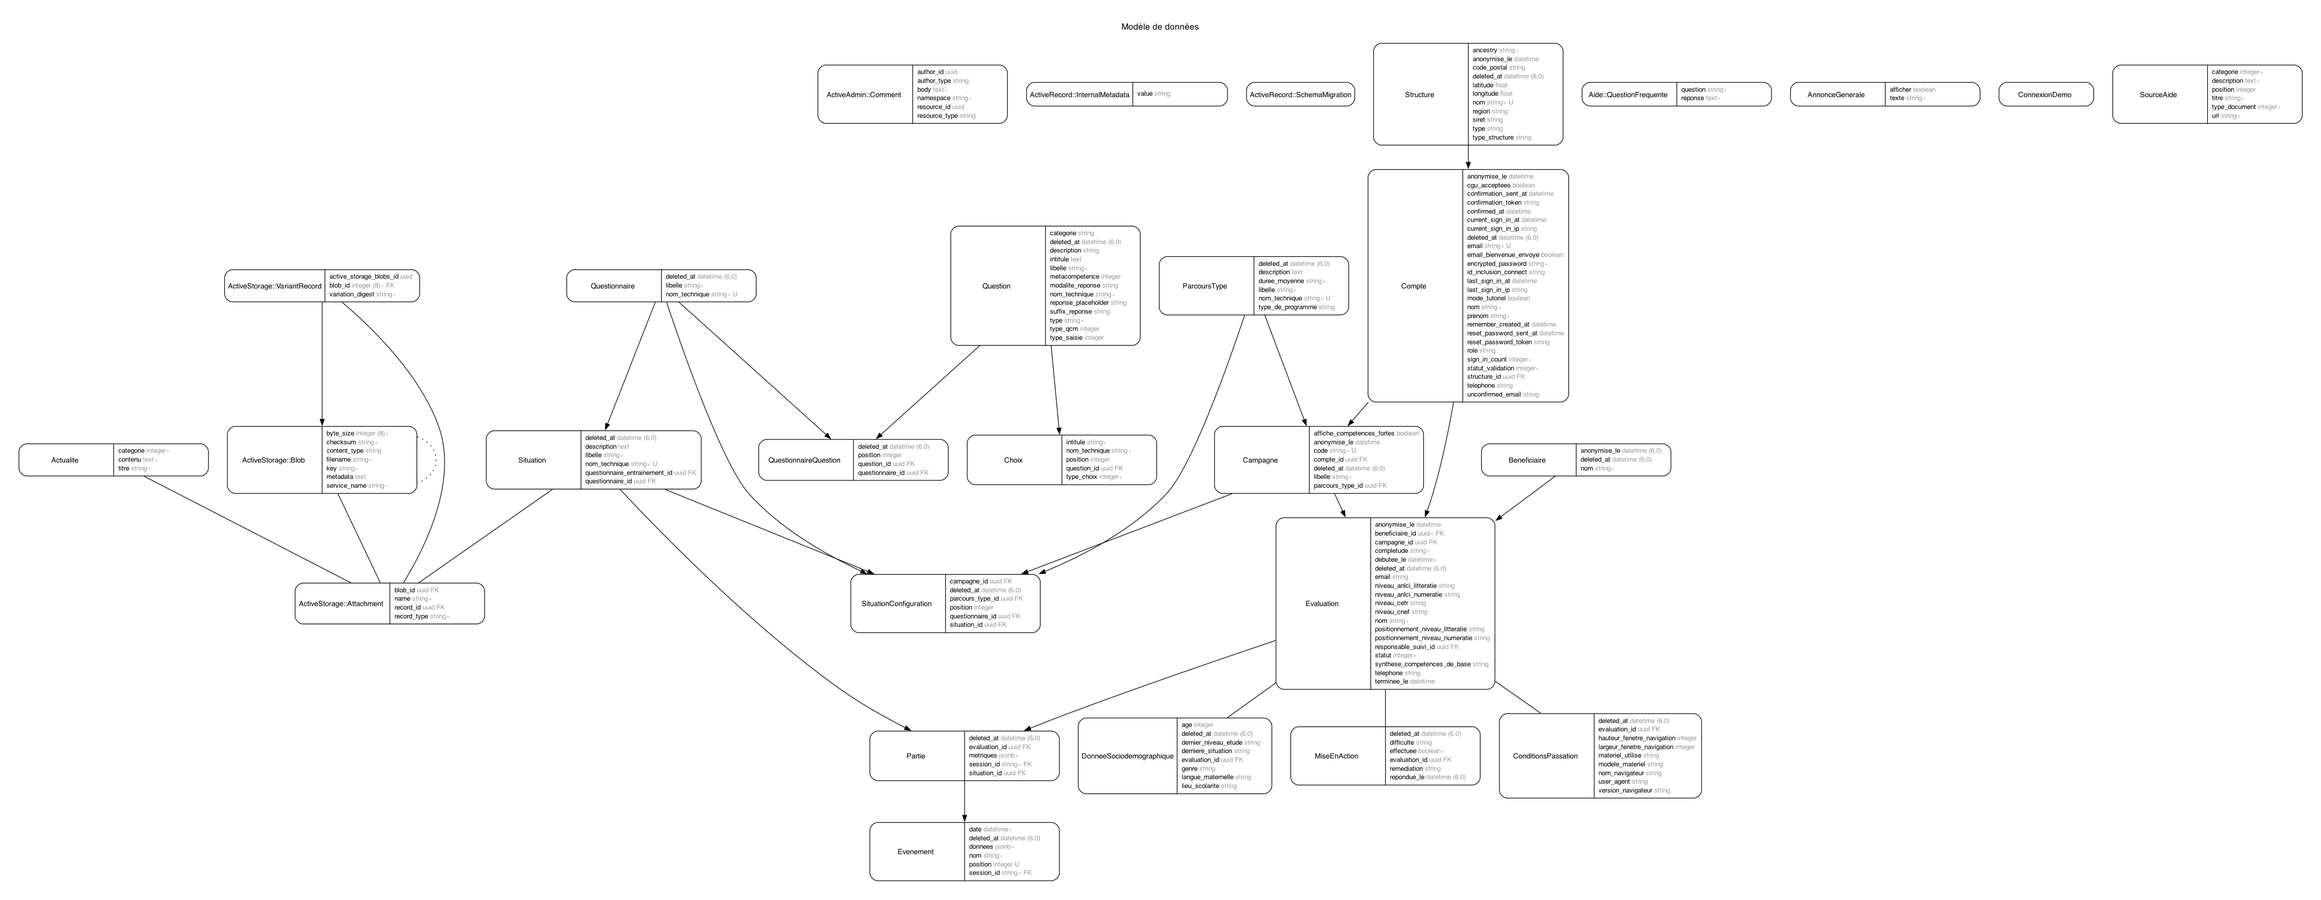
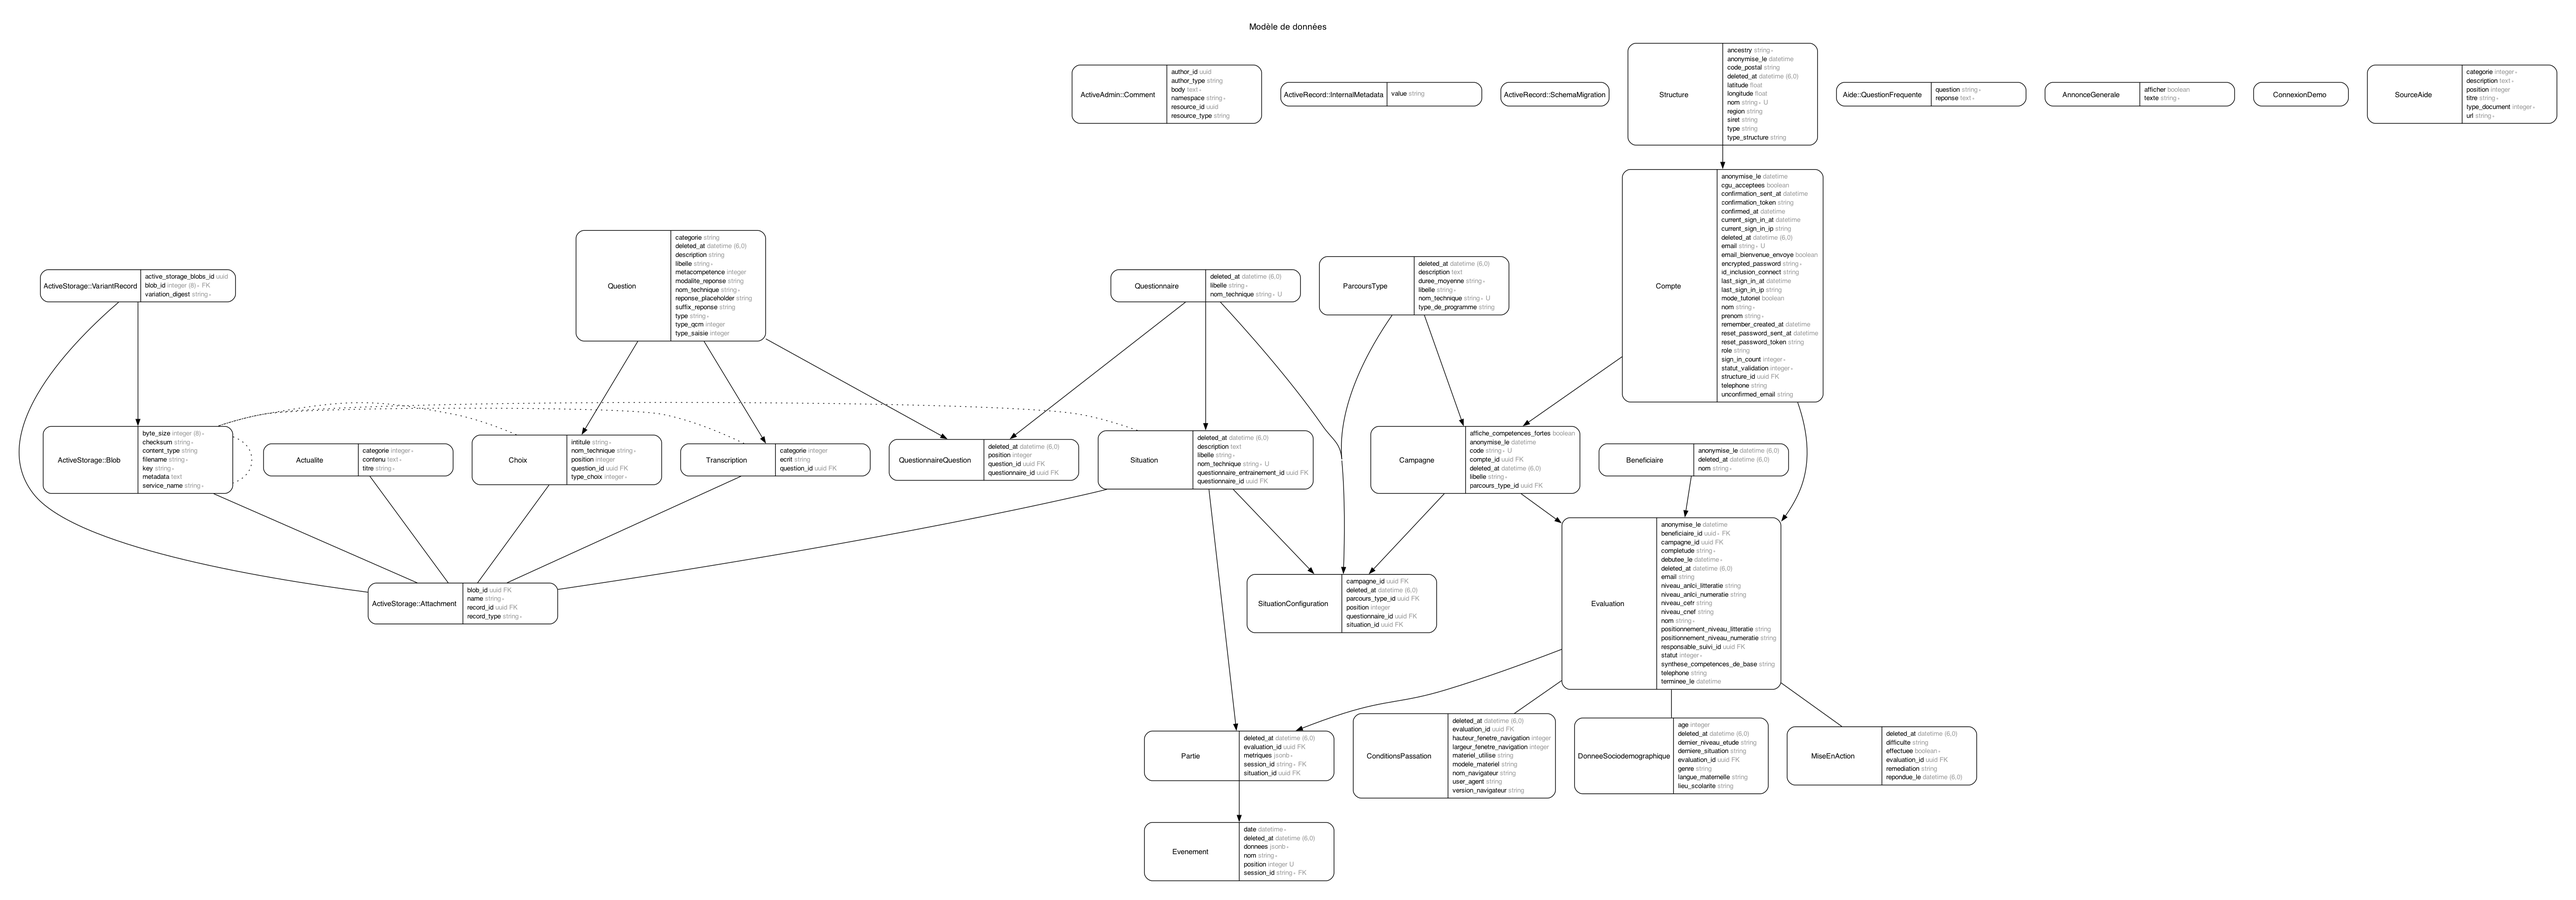
Retire le champ intitule d'une question

diff --git a/db/schema.rb b/db/schema.rb
@@ -10,7 +10,7 @@
 #
 # It's strongly recommended that you check this file into your version control system.
 
-ActiveRecord::Schema[7.0].define(version: 2024_08_07_151045) do
+ActiveRecord::Schema[7.0].define(version: 2024_08_08_043847) do
   # These are extensions that must be enabled in order to support this database
   enable_extension "pgcrypto"
   enable_extension "plpgsql"
@@ -291,7 +291,6 @@ ActiveRecord::Schema[7.0].define(version: 2024_08_07_151045) do
   end
 
   create_table "questions", id: :uuid, default: -> { "gen_random_uuid()" }, force: :cascade do |t|
-    t.text "intitule"
     t.datetime "created_at", precision: nil, null: false
     t.datetime "updated_at", precision: nil, null: false
     t.string "type"

diff --git a/db/migrate/20240808043847_supprime_intitule_de_question.rb b/db/migrate/20240808043847_supprime_intitule_de_question.rb
@@ -1,0 +1,14 @@
+class SupprimeIntituleDeQuestion < ActiveRecord::Migration[7.0]
+  def up
+    remove_column :questions, :intitule, :string
+  end
+
+  def down
+    add_column :questions, :intitule, :string
+    Question.find_each do |question|
+      if question.transcription_ecrite_pour(:intitule).present?
+        question.update(intitule: question.transcription_ecrite_pour(:intitule))
+      end
+    end
+  end
+end
